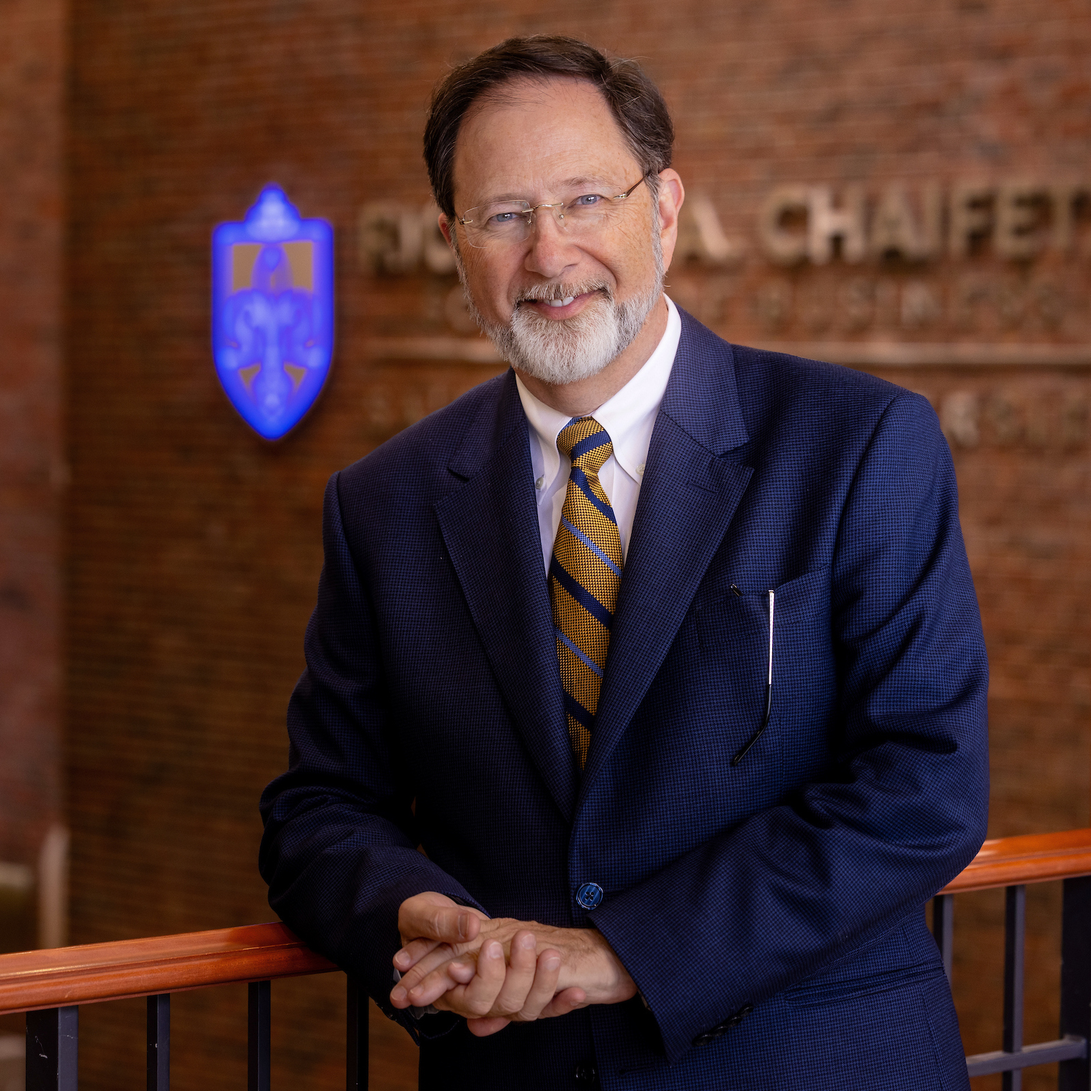
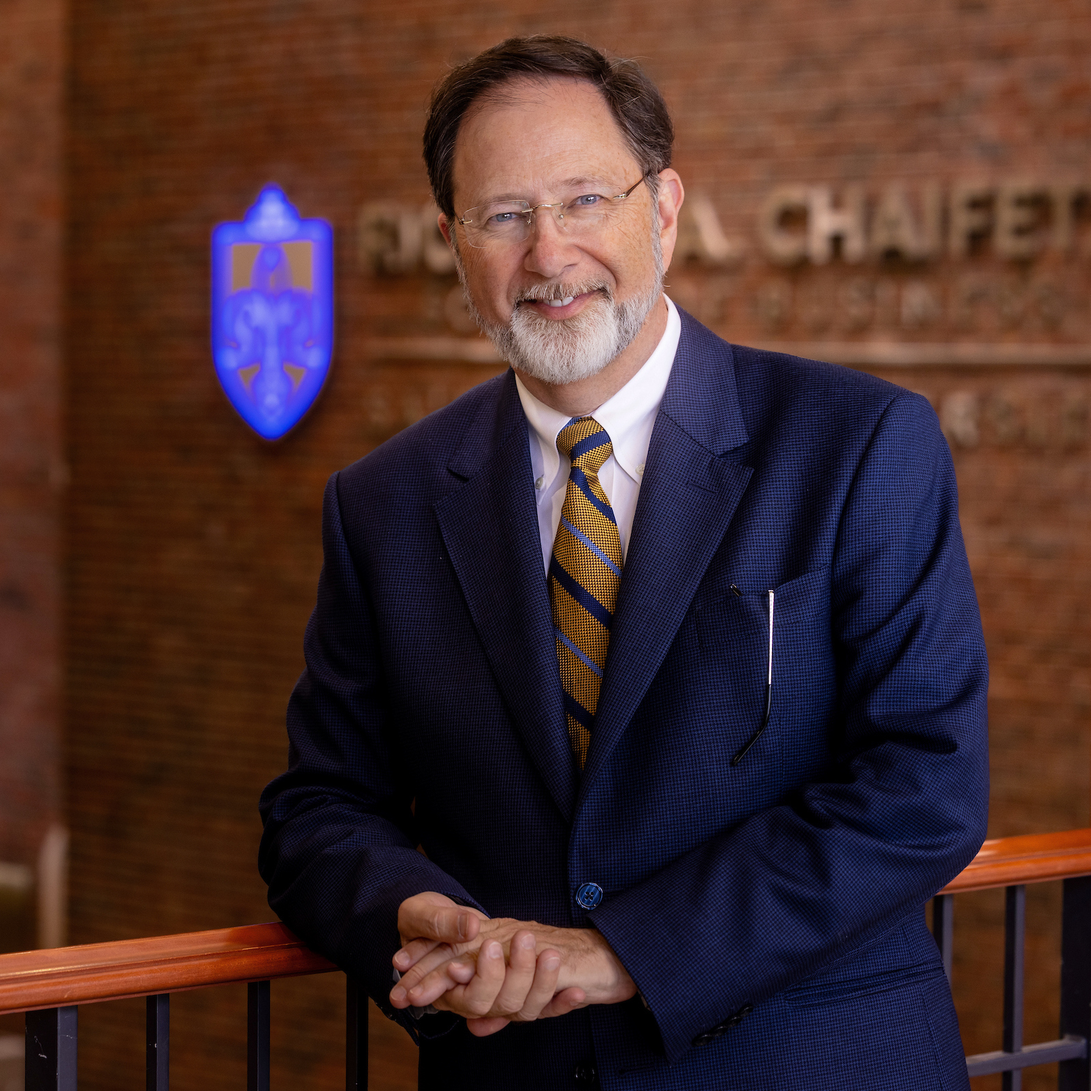
Updates (#4)
* update testimonials

* test pdf viewer fix

* update photos

Changed region(s): [[0.4997, 0.3748, 0.5934, 0.6871], [0.4685, 0.2811, 0.4997, 0.3123]]

diff --git a/index.html b/index.html
@@ -160,6 +160,8 @@
                                 <li data-target="#quote-carousel" data-slide-to="0" class="active"></li>
                                 <li data-target="#quote-carousel" data-slide-to="1"></li>
                                 <li data-target="#quote-carousel" data-slide-to="2"></li>
+                                <li data-target="#quote-carousel" data-slide-to="3"></li>
+                                <li data-target="#quote-carousel" data-slide-to="4"></li>
                             </ol>
                             <!-- Carousel Slides / Quotes -->
                             <div class="carousel-inner">
@@ -167,7 +169,23 @@
                                 <div class="item active">
                                     <div class="row">
                                         <div class="col-sm-12">
-                                            <p class="quote">&ldquo;With A Bot and a Prayer is a timely and paradigm-shifting book that reimagines how AI can enhance, 
+                                            <p class="quote">&ldquo;<i>With a Bot and a Prayer</i> takes readers on a fascinating journey into how artificial intelligence can support—not
+                                            threaten—human growth and formation. In a world quick to frame AI as a danger to our humanity, Joyce and Nickerson offer
+                                            a refreshingly hopeful perspective: that AI, wisely used, can help us become the people we imagine we can be. Drawing on
+                                            Ignatian and Jesuit principles with impressive clarity, the authors weave together insights from education,
+                                            spirituality, and technology to show how formation—becoming fully ourselves—remains at the heart of learning. Both
+                                            practical and inspiring, this book invites readers to begin using AI effectively as a resource for personal and
+                                            collective transformation.&rdquo;</p>
+                                            <small><strong>Fr. David Suwalsky, S.J.</strong> Vice President for Mission and Identity, Saint Louis University</small>
+                                        </div>
+                                    </div>
+                                </div>
+
+                                <!-- Quote 2 -->
+                                <div class="item">
+                                    <div class="row">
+                                        <div class="col-sm-12">
+                                            <p class="quote">&ldquo;<i>With A Bot and a Prayer</i> is a timely and paradigm-shifting book that reimagines how AI can enhance, 
                                                 rather than diminish, what it means to be human. In prose that blends pedagogical wisdom with lived leadership practice, 
                                                 Joyce and Nickerson introduce the avaspar—a formative AI companion—as a new ally in education and growth. Their vision 
                                                 invites educators and leaders to see AI not as a threat to formation, but as a partner in unlocking human potential and 
@@ -177,13 +195,13 @@
                                     </div>
                                 </div>
 
-                                <!-- Quote 2 -->
+                                <!-- Quote 3 -->
                                 <div class="item">
                                     <div class="row">
                                         <div class="col-sm-12">
                                             <p class="quote">&ldquo;While most conversations about Artificial Intelligence remain tethered to speed, scale, and technical utility, the
                                             three-way collaboration between Jackson Nickerson, Mary Ellen Joyce, and their AI companion, Sparky call us to something
-                                            more profound. In With a Bot and a Prayer, they offer an innovative formation-first framework where AI becomes a
+                                            more profound. In <i>With a Bot and a Prayer</i>, they offer an innovative formation-first framework where AI becomes a
                                             companion in discernment, presence, and becoming. Their vision surfaces a long-overdue priority of ensuring that
                                             dignity, wisdom, and right decision-making are not afterthoughts, but core design principles of the generative era. This
                                             work parallels and inspires efforts like our Veritas Ethical Operating System (EOS), where embedding ethics into AI’s
@@ -193,7 +211,20 @@
                                     </div>
                                 </div>
 
-                                <!-- Quote 3 -->
+                                <!-- Quote 4 -->
+                                <div class="item">
+                                    <div class="row">
+                                        <div class="col-sm-12">
+                                            <p class="quote">&ldquo;AI’s epochal shift calls higher education to cultivate the wisdom necessary to ensure its applications advance human
+                                            progress and the common good. Nickerson and Joyce provide what most conversations lack: a practice-grounded,
+                                            formation-first framework for engaging AI. They don’t close the conversation; they open it—and, drawing on Ignatian
+                                            wisdom, chart a credible path forward for institutions ready to reclaim and reimagine their formative mission.&rdquo;</p>
+                                            <small><strong>Randall S. Rosenberg, Dean, College of Philosophy & Letters, Saint Louis University</strong></small>
+                                        </div>
+                                    </div>
+                                </div>
+
+                                <!-- Quote 5 -->
                                 <div class="item">
                                     <div class="row">
                                         <div class="col-sm-12">
@@ -297,7 +328,7 @@
                                 <a href="https://www.linkedin.com/in/jackson-nickerson-3a37022/" class="btn btn-round btn-clear btn-linkedin"><i
                                         class="fa fa-linkedin-square"></i></a>
                             </div>
-                            <p>Questions? Reach out via LinkedIn</p>
+                            <p>We invite you to connect via linked in with Jackson Nickerson.</p>
                         </div>
                          
                     </div>

diff --git a/js/resumeModal.js b/js/resumeModal.js
@@ -1,51 +1,62 @@
 (function (a) {
-    a.createModal = function (b) {
-        defaults = {
-            title: "Book Preview", message: "", closeButton: true, scrollable: true
-        };
-        var b = a.extend({}, defaults, b);
-        var c = (b.scrollable === true) ? 'style="max-height: 420px;overflow-y: auto;"' : "";
-        html = '<div class="modal fade" id="myModal">';
-        html += '<div class="modal-dialog">';
-        html += '<div class="modal-content">';
-        html += '<div class="modal-header">';
-        html += '<button type="button" class="close" data-dismiss="modal" aria-hidden="true">×</button>';
-        if (b.title.length > 0) {
-            html += '<h4 class="modal-title">' + b.title + "</h4>";
-        }
-        html += "</div>";
-        html += '<div class="modal-body" ' + c + ">";
-        html += b.message;
-        html += "</div>";
-        html += '<div class="modal-footer">';
-        if (b.closeButton === true) {
-            html += '<button type="button" class="btn btn-primary" data-dismiss="modal">Close</button>';
-        }
-        html += "</div>";
-        html += "</div>";
-        html += "</div>";
-        html += "</div>";
-        a("body").prepend(html);
-        a("#myModal").modal().on("hidden.bs.modal", function () {
-            a(this).remove();
-        });
+  a.createModal = function (b) {
+    defaults = {
+      title: "Book Preview",
+      message: "",
+      closeButton: true,
+      scrollable: true,
     };
+    var b = a.extend({}, defaults, b);
+    var c =
+      b.scrollable === true
+        ? 'style="max-height: 420px;overflow-y: auto;"'
+        : "";
+    html = '<div class="modal fade" id="myModal">';
+    html += '<div class="modal-dialog">';
+    html += '<div class="modal-content">';
+    html += '<div class="modal-header">';
+    html +=
+      '<button type="button" class="close" data-dismiss="modal" aria-hidden="true">×</button>';
+    if (b.title.length > 0) {
+      html += '<h4 class="modal-title">' + b.title + "</h4>";
+    }
+    html += "</div>";
+    html += '<div class="modal-body" ' + c + ">";
+    html += b.message;
+    html += "</div>";
+    html += '<div class="modal-footer">';
+    if (b.closeButton === true) {
+      html +=
+        '<button type="button" class="btn btn-primary" data-dismiss="modal">Close</button>';
+    }
+    html += "</div>";
+    html += "</div>";
+    html += "</div>";
+    html += "</div>";
+    a("body").prepend(html);
+    a("#myModal")
+      .modal()
+      .on("hidden.bs.modal", function () {
+        a(this).remove();
+      });
+  };
 })(jQuery);
 
 $(function () {
-    $('.view-pdf').on('click', function () {
-        var pdf_link = $(this).attr('href');
-        //var iframe = '<div class="iframe-container"><iframe src="'+pdf_link+'"></iframe></div>'
-        //var iframe = '<object data="'+pdf_link+'" type="application/pdf"><embed src="'+pdf_link+'" type="application/pdf" /></object>'        
-        var iframe = '<object type="application/pdf" data="' + pdf_link + '" width="100%" height="800">No Support</object>';
-        $.createModal({
-            title: 'Preview',
-            message: iframe,
-            closeButton: true,
-            scrollable: false
-        });
-        return false;
+  $(".view-pdf").on("click", function () {
+    var pdf_link = $(this).attr("href");
+    //var iframe = '<div class="iframe-container"><iframe src="'+pdf_link+'"></iframe></div>'
+    //var iframe = '<object data="'+pdf_link+'" type="application/pdf"><embed src="'+pdf_link+'" type="application/pdf" /></object>'
+    var iframe =
+      '<embed type="application/pdf" src="' +
+      pdf_link +
+      '" width="100%" height="800">Mobile not supported, please view on web</embed>';
+    $.createModal({
+      title: "Preview",
+      message: iframe,
+      closeButton: true,
+      scrollable: false,
     });
+    return false;
+  });
 });
-
-
